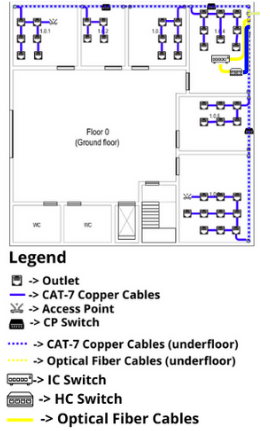
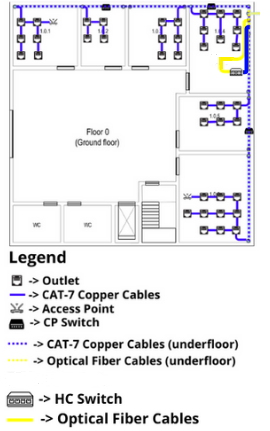
Resolved problem of more IC in Building 1

Changed region(s): [[0.0, 0.8445, 0.4148, 0.9049], [0.7704, 0.1206, 0.8593, 0.1508]]

diff --git a/doc/sprint1/1221083/README.md b/doc/sprint1/1221083/README.md
@@ -141,9 +141,8 @@ The order of outlets in relation to cable structure is: ⬇ - ➡ - ⬇
 
 ##### Monomode Optical Fiber Cables
 
-- From **Backbone** to **Floor 0** -> 63,3 m + 519,1 m = **582,4 m**
-- From **Floor 0** to **ICC** -> **5,3 m**
-- From **ICC** to **HCC** -> **1,4 m**
+- From **Backbone** to **Floor 0** -> **63,3 m**
+- From **Floor 0** to **HCC** -> **7,9 m**
 
 #### Floor 1
 
@@ -177,7 +176,7 @@ The order of outlets in relation to cable structure is: ⬇ - ➡ - ⬇
 
 #### Floor 0
 
--   **40 + 2 (ICC to HCC)**
+-   **40 + 2 (HCC)**
 
 #### Floor 1
 
@@ -203,7 +202,6 @@ The order of outlets in relation to cable structure is: ⬇ - ➡ - ⬇
 
 40 outlets are available on this floor, so a minimum of **two 24 patch panels** (or four 12 patch panels) are needed. To distribute the patch panels as best as possible, the following was placed:
 
-- 1 patch panel of **12 ports** (ICC)
 - 1 patch panel of **24 ports** (HCC)
 - 1 patch panel of **36 ports** (room 1.0.4)
 - 1 patch panel of **24 ports** (room 1.0.2)
@@ -227,14 +225,13 @@ The order of outlets in relation to cable structure is: ⬇ - ➡ - ⬇
 
 #### Floor 0
 
-For the **Horizontal Cross-Connect** and **Intermediate Cross-Connect**:
+For the **Horizontal Cross-Connect**:
 
 - **1U** for 1 copper patch panel of 24 ports (HCC)
-- **1U** for 1 fiber patch panel of 12 ports (ICC)
 - **1U** for expected corresponding switches
-- **3U** an additional 100% over dimensioning
+- **2U** an additional 100% over dimensioning
 
-Total: **6U**
+Total: **4U**
 
 For the two **Consolidation Point (24 ports)**
 
@@ -284,6 +281,6 @@ Total: **6U** - Commercially available telecommunications enclosures is actually
 
 | Floor     | No. of outlets | CAT-7 Copper Cables (m) | Monomode Fiber Cables (m) | Patch-Cords (0,5 m) | User-Cords (5 m) | Patch panels (12) | Patch panels (24) | Patch panels (36) | Telecommunication Enclosures | AP | CP (24) | CP (36) | Switches |
 |-----------|----------------|-------------------------|---------------------------|---------------------|------------------|-------------------|-------------------|-------------------|------------------------------|----|---------|---------|----------|
-| 0         | 40             | 419,4                   | 589,1                     | 42                  | 40               | 1                 | 3                 | 1                 | 4                            | 2  | 2       | 1       | 5        |
+| 0         | 40             | 419,4                   | 70,0                      | 42                  | 40               | 0                 | 3                 | 1                 | 4                            | 2  | 2       | 1       | 5        |
 | 1         | 52             | 574,6                   | 10,4                      | 54                  | 52               | 3                 | 3                 | 1                 | 6                            | 2  | 3       | 1       | 6        |
-| **Total** | 92             | 994,0                   | 599,5                     | 96                  | 92               | 4                 | 6                 | 2                 | 10                           | 4  | 5       | 2       | 11       |
+| **Total** | 92             | 994,0                   | 80,4                      | 96                  | 92               | 3                 | 6                 | 2                 | 10                           | 4  | 5       | 2       | 11       |
